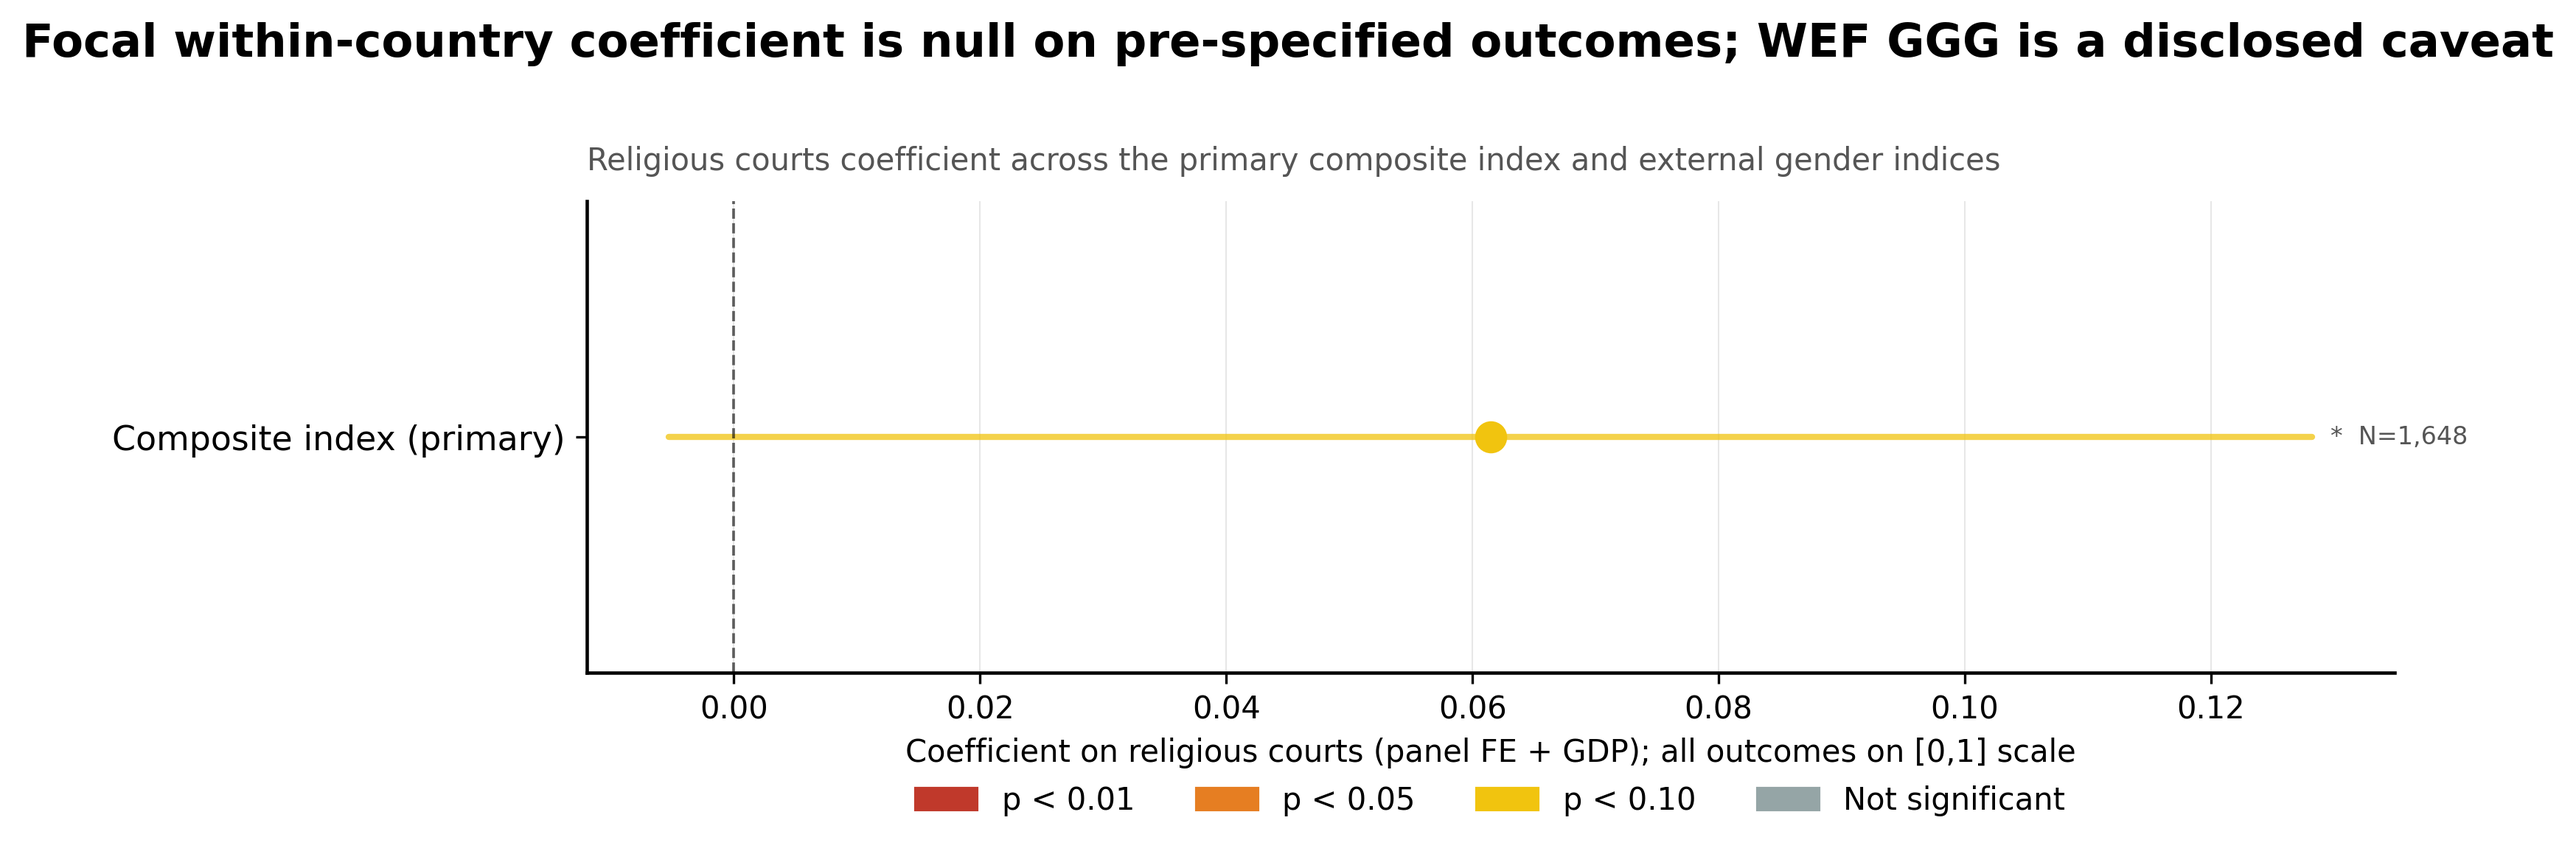
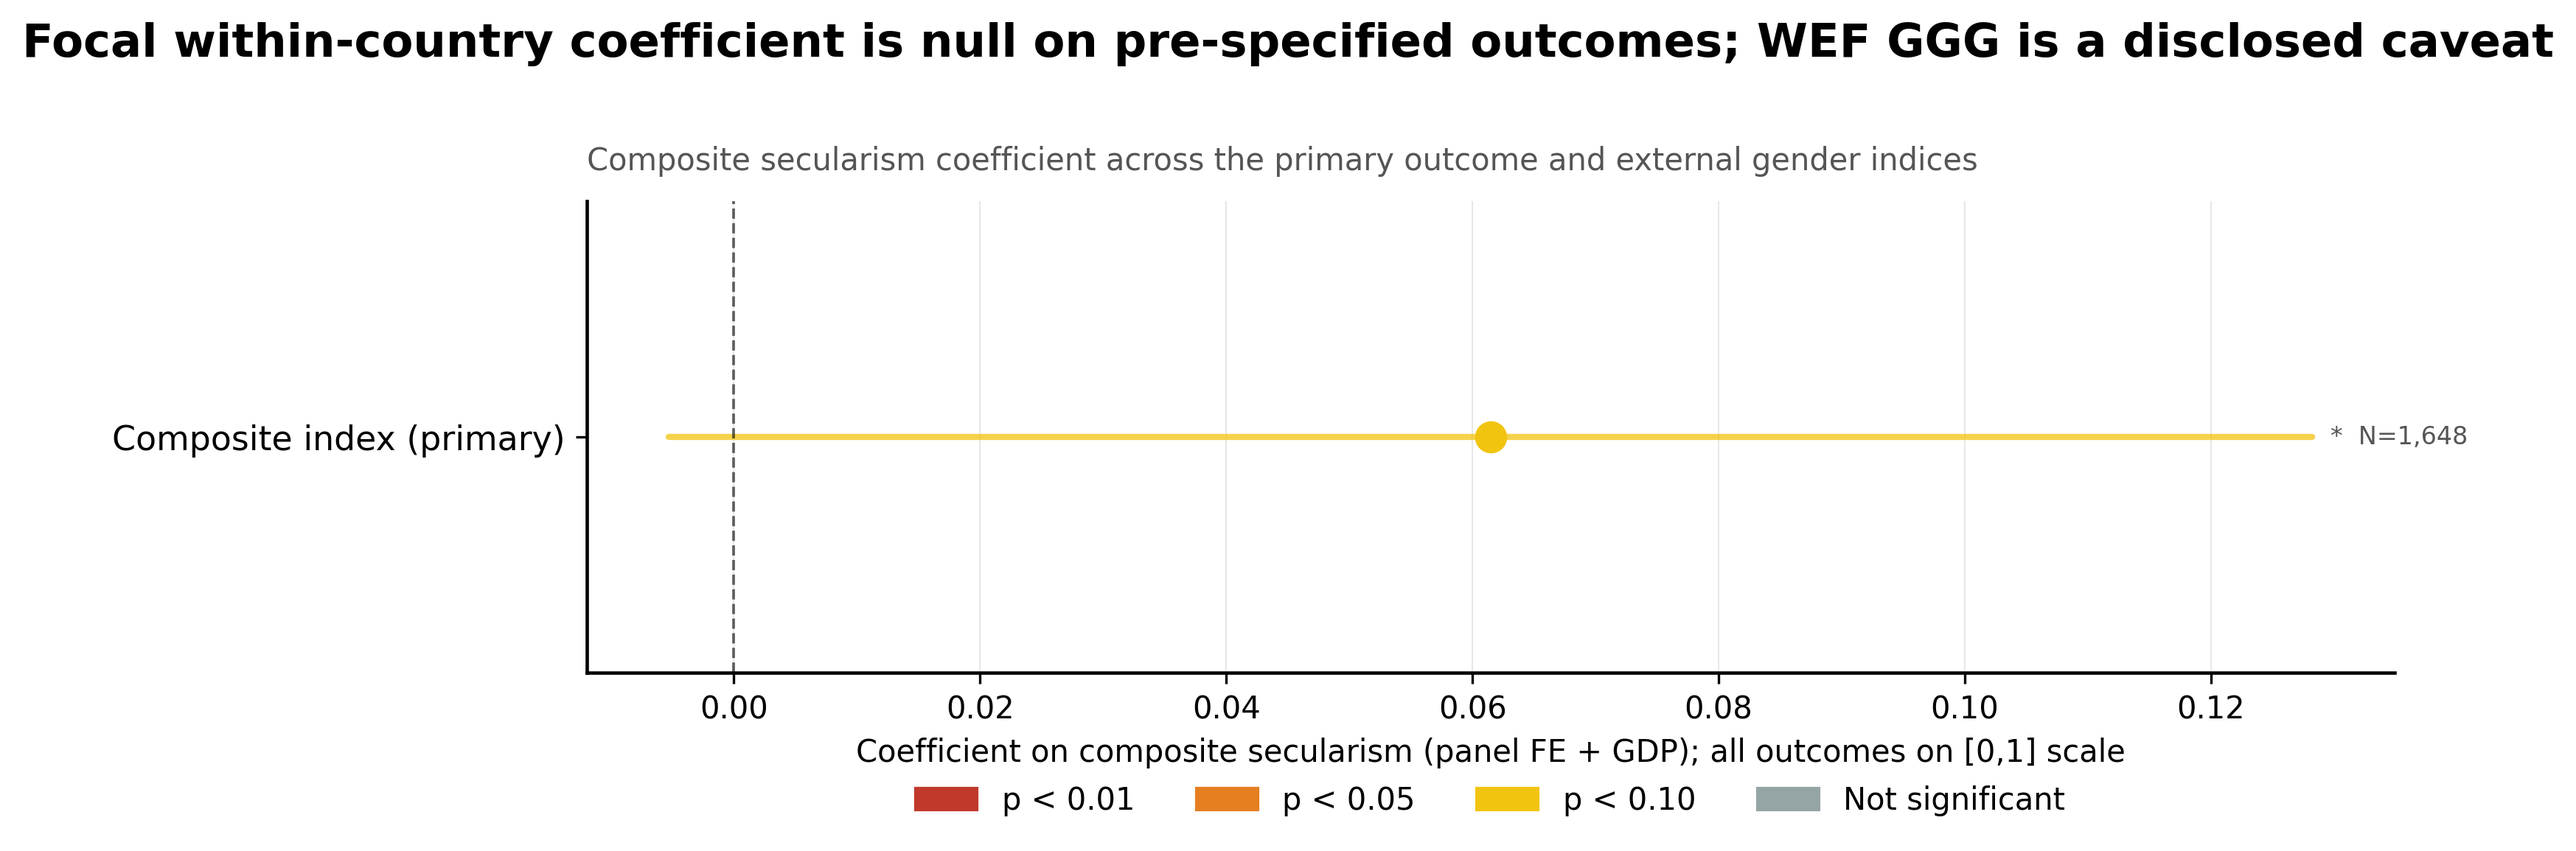
merge-prep: clean up focal-label drift across figures
Post-composite-swap label cleanup. The PNGs were regenerated under the
composite focal in 77417d9 but several labels, suptitles, variable
names, and figures/README descriptions still referenced the legacy
religious-courts focal.

- analysis/run_plots.py:
  * Rename courts_rows -> composite_rows (line 759). The variable binds
    FOCAL_PRED = composite_secularism_norm; the old name was misleading.
  * Scatter fig 01 suptitle updated from the stale "Courts: no
    correlation. Apostasy: strong negative correlation." to reflect the
    composite left-panel content.
  * LOO fig 05 left-panel label changed from "Religious courts" with
    PALETTE["courts"] to "Composite secularism" with PALETTE["composite"].
    The underlying data (loo_jackknife.csv) has been the composite since
    77417d9; only the label was stale.
  * Spec-ladder fig 07 left-panel label and palette updated in parallel.
  * Alt-outcomes fig 10 subsubtitle "Religious courts coefficient across
    the primary composite index..." -> "Composite secularism coefficient
    across the primary outcome and external gender indices".
  * WBL-groups fig 11 subsubtitle "Religious courts coefficient for each
    WBL legal-rights domain..." -> "Composite secularism coefficient for
    each WBL legal-rights domain plus the overall WBL index".
  * Main-loop console print strings "courts + apostasy" -> "composite +
    apostasy" (cosmetic, shows up in analysis.log).
[…]

Changed region(s): [[0.2184, 0.1558, 0.7799, 0.2182], [0.3432, 0.8727, 0.8423, 0.9039]]

diff --git a/analysis/run_plots.py b/analysis/run_plots.py
@@ -246,7 +246,7 @@ def plot_scatter(df: pd.DataFrame):
     )
 
     fig.suptitle(
-        "Courts: no correlation. Apostasy: strong negative correlation.",
+        "Composite secularism and apostasy laws: clear negative correlations with women's welfare.",
         fontsize=16, fontweight="bold", y=1.04,
     )
     fig.text(
@@ -521,7 +521,7 @@ def plot_loo():
     if have_courts:
         loo_c = pd.read_csv(LOO_CSV)
         _render_loo_column(loo_c, axes[0, col], axes[1, col],
-                           PALETTE["courts"], "Religious courts")
+                           PALETTE["composite"], "Composite secularism")
         col += 1
     if have_apostasy:
         loo_a = pd.read_csv(LOO_APOSTASY_CSV)
@@ -756,14 +756,14 @@ def plot_spec_stability():
         print("  Results CSV not found -- skipping.")
         return
 
-    courts_rows = _collect_spec_rows(FOCAL_PRED,   SPEC_CSV)
-    apos_rows   = _collect_spec_rows(FOCAL_PRED_2, SPEC_APOSTASY_CSV)
+    composite_rows = _collect_spec_rows(FOCAL_PRED,   SPEC_CSV)
+    apos_rows      = _collect_spec_rows(FOCAL_PRED_2, SPEC_APOSTASY_CSV)
 
-    n_rows = max(len(courts_rows), len(apos_rows))
+    n_rows = max(len(composite_rows), len(apos_rows))
     fig, axes = plt.subplots(1, 2, figsize=(14, max(6, n_rows * 0.55 + 2)))
 
-    _render_spec_column(axes[0], courts_rows,
-                        "Religious courts", PALETTE["courts"])
+    _render_spec_column(axes[0], composite_rows,
+                        "Composite secularism", PALETTE["composite"])
     _render_spec_column(axes[1], apos_rows,
                         "Apostasy laws", PALETTE["apostasy"])
 
@@ -997,7 +997,7 @@ def plot_alternative_outcomes():
     ax.set_yticks(ys)
     ax.set_yticklabels(df_plot["label"], fontsize=11)
     ax.set_xlabel(
-        "Coefficient on religious courts (panel FE + GDP); all outcomes on [0,1] scale",
+        "Coefficient on composite secularism (panel FE + GDP); all outcomes on [0,1] scale",
         fontsize=10
     )
     fig.suptitle(
@@ -1005,7 +1005,7 @@ def plot_alternative_outcomes():
         fontsize=15, fontweight="bold", y=1.00,
     )
     ax.set_title(
-        "Religious courts coefficient across the primary composite index and external gender indices",
+        "Composite secularism coefficient across the primary outcome and external gender indices",
         fontsize=10, fontweight="normal", color="#555", loc="left", pad=10,
     )
 
@@ -1095,7 +1095,7 @@ def plot_wbl_groups():
         fontsize=15, fontweight="bold", y=1.00,
     )
     ax.set_title(
-        "Religious courts coefficient for each WBL legal-rights domain plus the composite",
+        "Composite secularism coefficient for each WBL legal-rights domain plus the overall WBL index",
         fontsize=10, fontweight="normal", color="#555", loc="left", pad=10,
     )
 
@@ -1393,13 +1393,13 @@ def main():
     print("\n[4/10] WBL group score breakdown...")
     plot_wbl_groups()
 
-    print("\n[5/10] LOO jackknife (courts + apostasy 2x2)...")
+    print("\n[5/10] LOO jackknife (composite + apostasy 2x2)...")
     plot_loo()
 
     print("\n[6/10] Placebo outcomes (gendered mechanism)...")
     plot_placebo()
 
-    print("\n[7/10] Specification stability (courts + apostasy)...")
+    print("\n[7/10] Specification stability (composite + apostasy)...")
     plot_spec_stability()
 
     print("\n[8/10] Oster sensitivity (apostasy)...")

diff --git a/analysis/run_analysis.py b/analysis/run_analysis.py
@@ -3442,6 +3442,13 @@ def phase_wbl_groups() -> pd.DataFrame:
     group_cols = [g for g in WBL_GROUP_LABELS if g in merged.columns]
     pred_cols  = GRI_PANEL_COLS + CONTROLS_GDP
 
+    # Follow-up (merge-prep 2026-04-15): also emit composite focal rows so
+    # 11_wbl_groups.png regenerates under the composite-secularism headline
+    # rather than skipping. The composite is built in-memory here via the
+    # same build_secularism_composite call the main pipeline uses.
+    merged_with_composite = build_secularism_composite(merged)
+    composite_pred_cols = [FOCAL_PRED] + CONTROLS_GDP
+
     rows = []
     for group in group_cols:
         required = [group, "iso3", "year"] + pred_cols
@@ -3479,6 +3486,33 @@ def phase_wbl_groups() -> pd.DataFrame:
                 })
         except Exception as e:
             print(f"    Model failed: {e}")
+
+        # Parallel composite-focal regression for the same group.
+        required_c = [group, "iso3", "year"] + composite_pred_cols
+        sub_c = merged_with_composite[required_c].dropna(
+            subset=[group] + composite_pred_cols).copy()
+        if sub_c["iso3"].nunique() < 20 or len(sub_c) < 50:
+            continue
+        try:
+            panel_c = sub_c.set_index(["iso3", "year"])
+            y_c = panel_c[group]
+            X_c = sm.add_constant(panel_c[composite_pred_cols])
+            res_c = PanelOLS(y_c, X_c, entity_effects=True, time_effects=True
+                             ).fit(cov_type="clustered", cluster_entity=True)
+            for var in res_c.params.index:
+                rows.append({
+                    "group":      group,
+                    "group_label": WBL_GROUP_LABELS.get(group, group),
+                    "predictor":  var,
+                    "coef":       res_c.params[var],
+                    "se":         res_c.std_errors[var],
+                    "pval":       res_c.pvalues[var],
+                    "sig":        _sig(res_c.pvalues[var]),
+                    "n":          res_c.nobs,
+                    "r2":         float(getattr(res_c.rsquared, "within", res_c.rsquared)),
+                })
+        except Exception as e:
+            print(f"    Composite model failed for {group}: {e}")
 
     df_out = pd.DataFrame(rows)
     if not df_out.empty:

diff --git a/figures/README.md b/figures/README.md
@@ -8,22 +8,28 @@ Publication-quality figures from the secularism-women analysis. All generated by
 
 | File | What it shows | Source data |
 |---|---|---|
-| `00_map.png` | World choropleth — religious courts institutionalisation by country (2020, Pew GRI). Anchor country labels so the colour scale reads concretely. | `data/predictors.csv` |
-| `01_scatter.png` | Dual-panel 2020 scatter: courts (null, left) vs apostasy (strong negative slope, right), each with OLS fit + 95% CI and country anchors. | `data/predictors.csv`, `data/outcome_wbl.csv` |
-| `02_coefplot.png` | Forest plot across T1 (2020 cross-section) and T2 (panel FE). Apostasy + courts highlighted at top; context predictors greyed below. | `results/results.csv` |
-| `05_loo_jackknife.png` | Leave-one-out jackknife, 2x2 grid: histogram of country-drop coefficients (top) and 5 most influential countries (bottom), for courts (left) and apostasy (right). | `results/loo_jackknife.csv`, `results/loo_jackknife_apostasy.csv` |
+| `00_map.png` | World choropleth — composite secularism by country (2020). Anchor country labels so the colour scale reads concretely. | `data/predictors.csv` (composite built in-memory via `analysis.utils.build_secularism_composite`) |
+| `01_scatter.png` | Dual-panel 2020 scatter: composite secularism (left) vs apostasy (right), each with OLS fit + 95% CI and country anchors. Clear negative slope on both. | `data/predictors.csv`, `data/outcome_wbl.csv` |
+| `02_coefplot.png` | Forest plot across T1 (2020 cross-section) and T2 (panel FE). Composite and apostasy highlighted at top; context predictors greyed below. | `results/results.csv` |
+| `05_loo_jackknife.png` | Leave-one-out jackknife, 2×2 grid: histogram of country-drop coefficients (top) and 5 most influential countries (bottom), for composite (left) and apostasy (right). | `results/loo_jackknife.csv`, `results/loo_jackknife_apostasy.csv` |
 | `06_placebo.png` | Gendered-mechanism test: apostasy coefficient on female DVs (foregrounded) vs male DVs (desaturated). Women's treatment index leads. | `results/placebo_apostasy.csv` |
-| `07_spec_ladder.png` | Dual-panel specification ladder: Oster controls ladder stacked on sensitivity/subsample checks for courts (left) vs apostasy (right). | `results/spec_ladder.csv`, `results/spec_ladder_apostasy.csv`, `results/results.csv` |
+| `07_spec_ladder.png` | Dual-panel specification ladder: Oster controls ladder stacked on sensitivity/subsample checks for composite (left) vs apostasy (right). | `results/spec_ladder.csv`, `results/spec_ladder_apostasy.csv`, `results/results.csv` |
 | `09_oster_sensitivity.png` | Oster δ sensitivity curve (apostasy). Robust region shaded; headline δ at Rmax = 2.2× annotated. | `results/oster_sensitivity_apostasy.csv` |
-| `10_alt_outcomes.png` | Forest plot: courts coefficient across the primary composite and external gender indices (WEF GGG, UNDP GDI, WBL legal rights). | `results/results.csv`, `results/results_wbl.csv` |
-| `11_wbl_groups.png` | Courts coefficient across the 10 WBL legal-rights domains plus overall composite (2013–2022). Sorted by coefficient; null across every domain. | `results/results_wbl_groups.csv` |
-| `12_mundlak_decomposition.png` | Hero figure. Paired within-country (left) vs between-country (right) effects from T4 Mundlak RE-FE hybrid. Apostasy row highlighted; between/within ratio annotated. | `results/results.csv` (T4_mundlak_re rows) |
+| `10_alt_outcomes.png` | Forest plot: composite secularism coefficient across the primary WBL-based women's treatment index and external gender indices (WEF GGG, UNDP GDI, WBL legal rights). | `results/results.csv`, `results/results_wbl.csv` |
+| `11_wbl_groups.png` | Composite secularism coefficient across the 10 WBL legal-rights domains plus the overall WBL index (2013–2022). Sorted by coefficient; null across every domain. | `results/results_wbl_groups.csv` |
+| `12_mundlak_decomposition.png` | Hero figure. Paired within-country (left) vs between-country (right) effects from T4 Mundlak RE-FE hybrid. Composite and apostasy rows highlighted; between/within ratio annotated. | `results/results.csv` (T4_mundlak_re rows) |
+
+The focal predictor `FOCAL_PRED = composite_secularism_norm` (Item 2, 2026-04-15) is an equal-weight z-score composite over six Pew GRI sub-items, V-Dem `v2clrelig` (sign-flipped), and four WVS religious-intensity items. Built in-memory at load time by `analysis/utils.py:build_secularism_composite`; not stored on disk. `FOCAL_PRED_2 = gri_apostasy_norm` is the secondary sub-item focal (strongest individual GRI component). `FOCAL_PRED_LEGACY = gri_religious_courts_norm` is preserved as a robustness focal with outputs suffixed `_religious_courts`; it does not drive the figure set.
 
 **Removed from the presentation set:**
 - `03_coefplot_suboutcomes.png` — underlying Phase 3 sub-outcome tiers are no longer in `results.csv`.
 - `04_trend.png` — redundant with `12_mundlak_decomposition.png`, which makes the structural vs temporal argument more rigorously.
-- `08_event_study.png` — event studies are not informative for slow-moving institutional variables (73% of courts variation is between-country).
-- Courts-version Oster sensitivity — applying Oster to a null predictor is logically inverted; only the apostasy version is retained.
+- `08_event_study.png` — event studies are not informative for slow-moving institutional variables.
+- Oster sensitivity for the composite and legacy courts focals — applying Oster to a broad composite with multiple dimensions or to a known null sub-item is not informative; only the apostasy version is retained as the Oster headline.
+
+## Composite-variant outputs (not plotted)
+
+Follow-up #1, #2, and #3 add four robustness composite variants (`composite_secularism_real_norm`, `composite_secularism_instonly_norm`, `composite_secularism_covwt_norm`, `composite_secularism_pca_norm`). These surface in `results/headline_table.md` and in the methodology paper (`writing/methodology_full.tex` §2.2 and §6.2) but are not added to the figure deck — the 12-figure presentation set is frozen on the equal-weight composite headline to keep the narrative stable.
 
 ---
 
